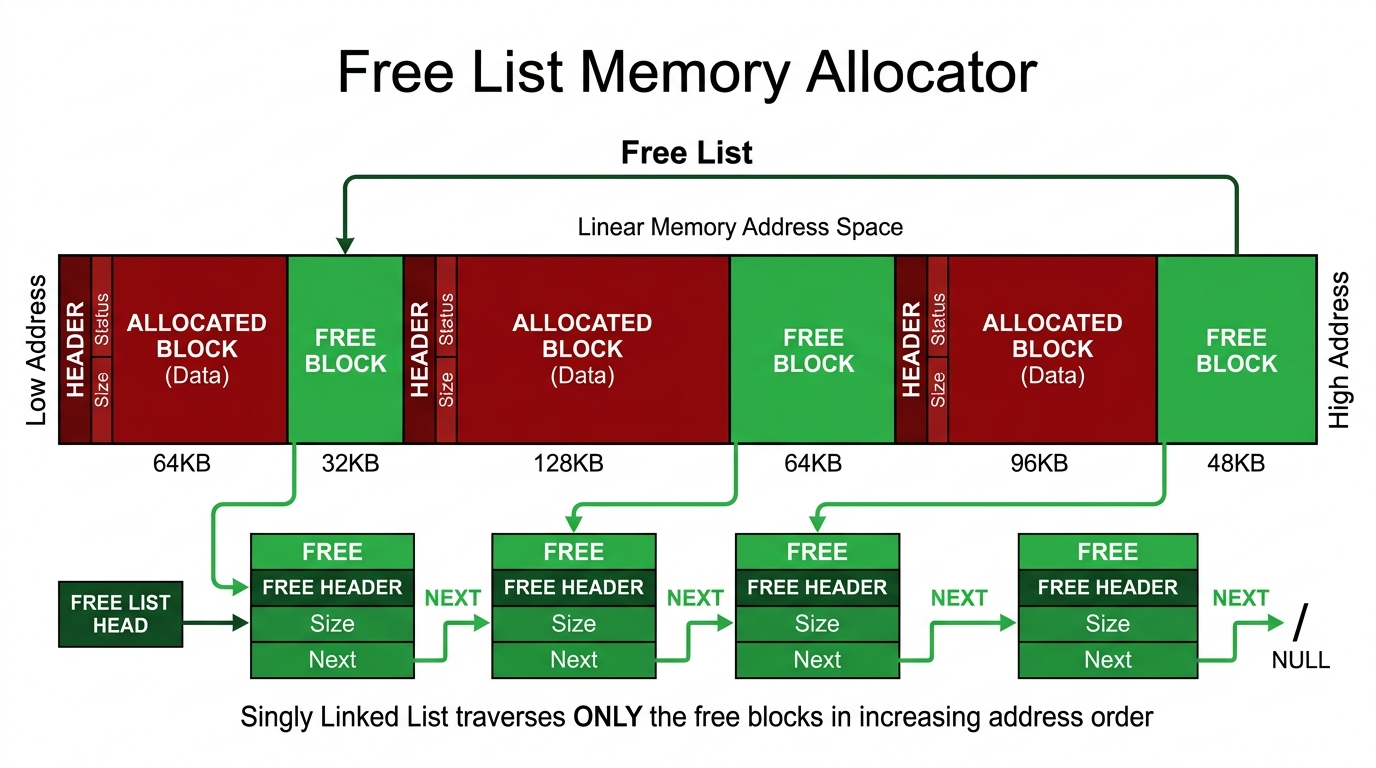
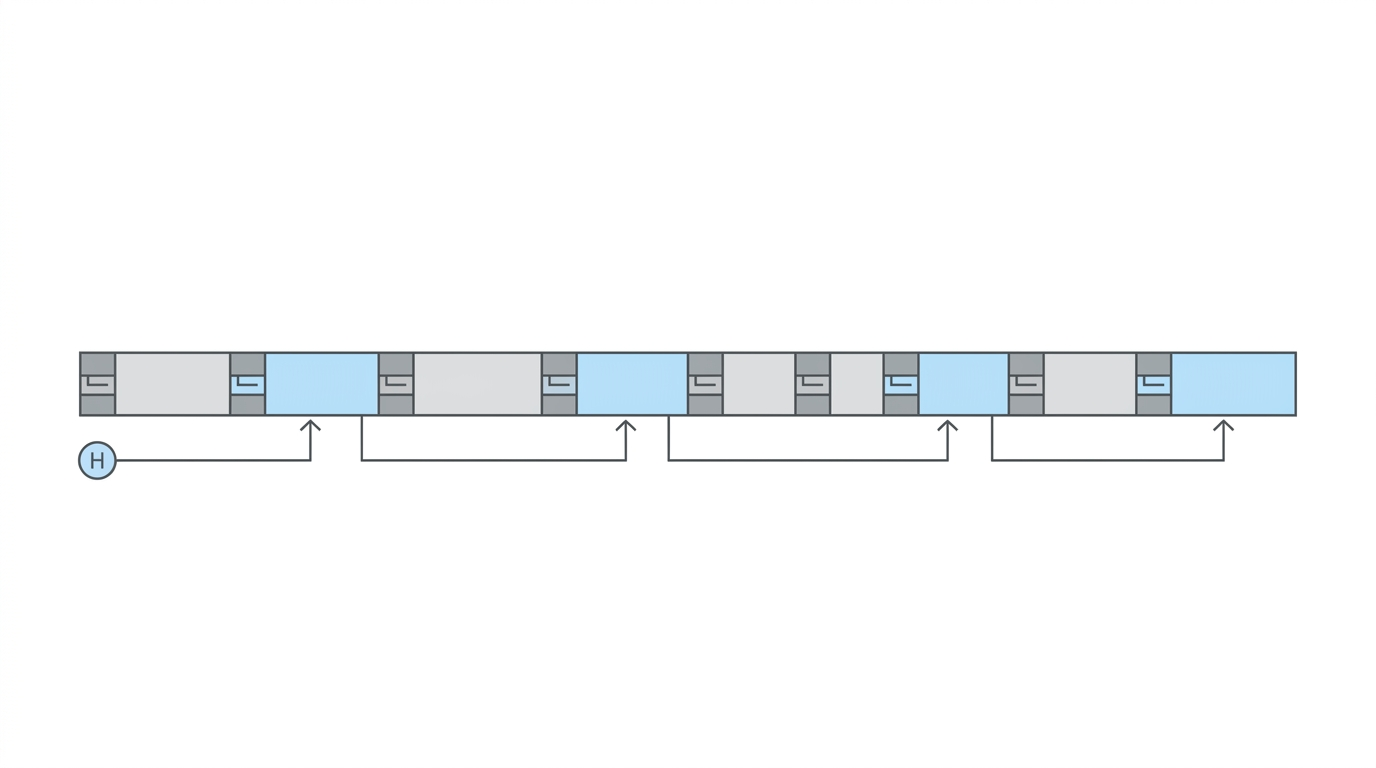
docs: streamline README and replace allocator diagrams with ultra-minimalist visuals

diff --git a/README.md b/README.md
@@ -12,192 +12,169 @@
 &nbsp;&nbsp;&nbsp;&nbsp;&nbsp;&nbsp;&nbsp;&nbsp;[Space complexity](#space-complexity)  <br/> 
 &nbsp;[Summary](#summary)  <br/> 
 &nbsp;[Last thoughts](#last-thoughts)  <br/> 
-# Introduction
-When applications need more memory this can be allocated in the heap (rather than in the stack) in _runtime_. This memory is called 'dynamic memory' because it can't be known at compile time and its need changes during the execution. Our programs can ask for dynamic memory usin 'malloc'. Malloc returns an address to a position in memory where we can store our data. Once we're done with that data, we can call 'free' to free the memory and let others processes use it.
+&nbsp;[Future work](#future-work)  <br/> 
 
-For this project I've implemented different ways to manage by ourselves dynamic memory in C++.This means that instead of using native calls like 'malloc' or 'free' we're going to use a custom memory allocator that will do this for us but in a more efficient way.
-The goal, then, is to understand how the most common allocators work, what they offer and compare them to see which one performs better.
+# Introduction
+Dynamic memory allocation using standard `malloc` and `free` is flexible but incurs significant performance overhead. This project implements custom C++ memory allocators that manage pre-allocated memory arenas to deliver faster, predictable allocations. The goal is to explore how different allocator designs operate, examine their trade-offs, and benchmark their runtime performance.
 
 # Build instructions
 
-```c
-git clone https://github.com/Sudheendra18/memory-allocators.git
-cmake -S memory-allocator -B build 
+```bash
+git clone https://github.com/Sudheendra18/custom-memory-allocator.git
+cmake -S . -B build 
 cmake --build build
 ```
 
 # What's wrong with Malloc?
-* **General purpose**: Being a general purpose operation means that it must work in all cases (from 1byte to 1GB or more...). For this reason the implementation is not as efficient as it could be if the needs were more specific.
-* **Slow**: Sometimes, when allocating memory, malloc needs to change from user to kernel mode to get more memory from the system. When this happens, malloc turns out to be super slow!
+* **General purpose:** Must handle any allocation size (from 1 byte to gigabytes), leading to internal fragmentation and bookkeeping overhead.
+* **Slow syscalls:** When heap expansion is required, `malloc` transitions between user space and kernel space (`brk`/`mmap`), which is slow and non-deterministic.
 
 # Custom allocators
-Because every program has specific needs, it makes no sense to use a general purpose allocator. We can choose the right allocator that works best for us. This way we can increase our **performance**.
-
-In general, custom allocators share some features:
-* **Low number of mallocs**: Any custom allocator tries to keep the number of mallocs low. To do that, they malloc _big chunks of memory_ and then, they manage this chunk internally to provide smaller allocations.
-* **Data structures**: Secondary data structures like _Linked Lists_, _Trees_, _Stacks_ to manage these big chunks of memory. Usually they are used to keep track of the allocated and/or free portions of memory to _speed up_ operations.
-* **Constraints**: Some allocators are very specific and have constraints over the data or operations that can be performed. This allows them to achieve a high performance but can only be used in some applications. 
+Custom allocators optimize performance by pre-allocating large memory arenas upfront and using domain-specific data structures:
+* **Fewer Mallocs:** Pre-allocates memory once to eliminate repetitive runtime syscalls.
+* **Tailored Data Structures:** Uses simple tracking (e.g., offsets, intrusive linked lists) suited to specific allocation patterns.
+* **Domain Constraints:** Imposing constraints (such as uniform chunk sizes or LIFO deallocation) enables ultra-fast $O(1)$ operations.
 
 ## Linear allocator
-This is the simplest kind of allocator. The idea is to keep a pointer at the first memory address of your memory chunk and move it every time an allocation is done. In this allocator, the internal fragmentation is kept to a minimum because all elements are sequentially (spatial locality) inserted and the only fragmentation between them is the alignment.
+The simplest allocator. Maintains an offset pointer at the beginning of the memory arena and increments it forward sequentially for each allocation.
 
 ### Data structure
-This allocator only requires a pointer (or an offset) to tell us the position of the last allocation. It doesn't require any extra information or data structure.
+Requires only an offset pointer to track the current allocation boundary. No per-allocation metadata or headers are needed.
 
 ![Data structure of a Linear Allocator](docs/images/linear1.png)
 
 _Complexity: **O(1)**_
 
 ### Allocate
-Simply move the pointer (or offset) forward.
+Advances the offset pointer forward by the requested allocation size.
 
 ![Allocating memory in a Linear Allocator](docs/images/linear2.png)
 
 _Complexity: **O(1)**_
 
 ### Free
-Due to its simplicity, this allocator doesn't allow specific positions of memory to be freed. Usually, all memory is freed together.
+Individual blocks cannot be freed. The entire memory arena is reset all at once in $O(1)$.
+
+---
 
 ## Stack allocator
-This is a smart evolution of the Linear Allocator. The idea is to manage the memory as a Stack. So, as before, we keep a pointer to the current memory address and we move it forward for every allocation. However, we also can move it backwards when a free operation is done. As before, we keep the spatial locality principle and the fragmentation is still very low.
+A LIFO (Last-In, First-Out) allocator. Similar to the Linear Allocator, but allows allocations to be rolled back in reverse order.
 
 ### Data structure
-The allocator only needs a pointer (or offset) to keep track of the current top of the stack. Rollback points are stored outside the managed block, so allocations do not need a per-allocation header in the returned memory. This avoids wasting padding space and keeps the user-facing memory contiguous.
+Maintains an offset pointer tracking the top of the stack. Each allocation is preceded by a small header containing block size and padding metadata.
 
 ![Data structure of a Stack Allocator](docs/images/stack1.png)
 
-_Complexity: **O(N*H) --> O(N)**_ where H is the Header size and N is the number of allocations
+_Complexity: **O(N)** space overhead for headers_
 
 ### Allocate
-Simply move the pointer (or offset) forward and place a header right before the memory block indicating its size.
+Advances the offset pointer and writes an allocation header immediately before the returned memory block.
 
 ![Allocating memory in a Stack Allocator](docs/images/stack2.png)
 
 _Complexity: **O(1)**_
 
 ### Free
-Free is a LIFO rollback. The allocator restores the last saved offset and does not need to inspect any header stored in the allocation itself.
+LIFO rollback. Reads the block header and restores the offset pointer back to the previous allocation boundary.
 
 ![Freeing memory in a Stack Allocator](docs/images/stack3.png)
 
 _Complexity: **O(1)**_
 
+---
+
 ## Pool allocator
-A Pool allocator is quite different from the previous ones. It splits the big memory chunk in smaller chunks of the same size and keeps track of which of them are free. When an allocation is requested it returns the free chunk size. When a freed is done, it just stores it to be used in the next allocation. This way, allocations work super fast and the fragmentation is still very low.
+Splits a memory arena into equal, fixed-size chunks. It provides fast allocations and deallocations with zero internal fragmentation for uniform objects.
 
 ![Splitting scheme in a Pool Allocator](docs/images/pool1.png)
 
 ### Data structure
-To keep track of the free blocks of memory, the Pool allocator uses a Linked List that links the address of each free memory block. 
+Tracks free blocks using a singly linked list. To eliminate extra memory overhead, this list is **intrusive**—the `NEXT` pointers are stored directly inside the unused memory chunks themselves.
 
 ![Linked List used in a Pool Allocator](docs/images/pool2.png)
-
-To reduce the space needed, this **Linked List is stored in the same free blocks** (smart right?). However, this set the constraint that the data chunks must be at least as big as our nodes in the Linked List (so that, we can store the Linked List in the free memory blocks).
-
 ![In memory Linked List used in a Pool Allocator](docs/images/pool3.png)
 
-_Complexity: **O(1)**_ 
+_Constraint: Chunk size must be at least as large as a pointer (`sizeof(void*)`)._  
+_Complexity: **O(1)**_
 
 ### Allocate
-An allocation simply means to take (pop) the first free block of the Linked List.
+Pops the first free block from the head of the linked list.
 
 ![Allocation in a Pool Allocator](docs/images/pool4.png)
-
-The linked list doesn't have to be sorted. Its order its determined by the how the allocations and free are done.
-
 ![Random State of a Linked List in a Pool Allocator](docs/images/pool5.png)
 
 _Complexity: **O(1)**_
 
 ### Free
-Free means to add (push) the freed element as the first element in the Linked List.
+Pushes the freed block back onto the head of the linked list.
 
 _Complexity: **O(1)**_
 
-## Free list allocator
+---
 
-This is a general purpose allocator that, contrary to the others, doesn't impose any restriction. It allows allocations and deallocations to be done in any order. For this reason, its performance is not as good as its predecessors. Depending on the data structure used to speed up this allocator, there are two common implementations: one that uses a Linked List and one that uses a Red black tree.
+## Free list allocator
+A general-purpose allocator that imposes no restrictions on allocation order, deallocation order, or block sizes.
 
 ### Linked list data structure
-As the name says, this implementation uses a Linked List to store, in a sorted manner, the start address of each free contiguous block in memory and its size.
-When an allocation is requested, it searches in the linked list for a block where the data can fit. Then it removes the element from the linked list and places an allocation header (used on deallocations) right before the data (as we did in the Stack allocator).
-On deallocations, we get back the allocation header to know the size of the block that we are going to free. Once we free it we insert it into the sorted linked list and we try to merge contiguous memory blocks together creating bigger blocks.
-
-*Notes: My implementation has some constraints on the size and alignment of the data that can be allocated using **this** allocator. For example, the minimum size that can be allocated should be equals or bigger than the size required of a Free Node. Otherwise, we would be wasting more space in meta-data than in real data (Something similar happens with the alignment) These constraints are related with my implementation. A better implementation would probably handle these cases. I decided not to do so because performance would be drastically affected. In these cases its probably better to use a different allocator.*
+Maintains an address-sorted linked list of free memory blocks and their sizes. Each allocated block is prefixed with an allocation header to track size and alignment.
 
 ![Data structure in a Free list Allocator](docs/images/freelist_seq1.png)
 
-_Complexity: **O(N*HF + M*HA)--> O(M)**_ where N is the number of free blocks, HF is the size of the header of free blocks, M the number of allocated blocks and HA the size of the header of allocated blocks
-
+_Complexity: **O(M)** space overhead where M is the number of allocated blocks._
 
 ### Linked list Allocate
- When an allocation is requested, we look for a block in memory where our data can fit. This means that we have to iterate our linked list until we find a block that has a size equal or bigger than the size requested (it can store this data plus the allocation header) and remove it from the linked list. This would be a **first-fit** allocation because it stops when it finds the first block where the memory fits. There is another type of search called **best-fit** that looks for the free memory block of smaller size that can handle our data. The latter operation may take more time because is always iterating through all elements but it can reduce fragmentation.
+Searches the free list using **First-Fit** (first block that fits) or **Best-Fit** (smallest block that fits, minimizing fragmentation). The selected block is split, returning the requested size and keeping the remainder in the free list.
 
 ![Allocating in a Free list Allocator](docs/images/freelist_seq2.png)
 
-_Complexity: **O(N)**_ where N is the number of free blocks 
+_Complexity: **O(N)** where N is the number of free blocks._
 
 ### Linked list Free
-First of all we get back the information about the allocation from the header. Then, we iterate the Linked List to intert the free block in the right position (because is sorted by address). Once we've inserted it, we merge contiguous blocks. We can merge in _O(1) because our Linked List is sorted. We only need to look at the previous and next elements in the linked list to see if we can merge this contiguous blocks. This operation of merging contiguous memory blocks to create bigger blocks is called _Coalescence_
-If we used instead a Sorted Linked List of free and allocated blocks, the complexity would be *O(1)* but the allocation compleixity would be *O(N) where N is the number of free and allocated blocks and space complexity would be much higher. When we free a memory block we also look at the previous and next blocks to see if we can merge them into one bigger block. 
+Reads the block header, inserts the block back into the address-sorted free list, and merges adjacent contiguous free blocks (**Coalescence**) in $O(1)$ to prevent memory fragmentation.
 
 ![Freeing in a Free list Allocator](docs/images/freelist_seq3.png)
 
-_Complexity: **O(N)**_ where N is the number of free blocks
+_Complexity: **O(N)** search + **O(1)** merge._
 
 ### Red black tree data structure
-The purpose of using a Red black tree is to speed up allocations and deallocations. In the Linked List (or sequential) implementation every time an operation was made we needed to iterate the Linked List. This was O(N) in all cases.
+Using a Red-Black Tree keyed by size reduces search complexity from $O(N)$ to $O(\log N)$ while enabling fast Best-Fit allocation. An auxiliary doubly linked list maintains address order for $O(1)$ coalescence.
 
-Using Red Black trees we can reduce its complexity to O(log N) while keeping space complexity quite low because the tree data is stored inside the free memory blocks. In addition, this structure allows a **best-fit** algorithm to be used, reducing the fragmentation and keeping performance. However, an additional sorted Doubly Linked list is required to store allocated and free elements in order to be able to do coalescence operations in O(1).
-This implementation is the most common and most used in real systems because it offers high flexibility while keeping performance very high.
+---
 
 # Benchmarks
-Now its time to make sure that all the effort in designing and implementing custom memory allocators is worth. 
-I've made several benchmarks with different block sizes, number of operations, random order, etc. The time benchmark measures the time execution that takes initializing the allocator 'Init()' (malloc big chunk, setup additional data structures...) and until the last operation (allocation or free) is performed.
-
-Here I'm only showing what I believe is relevant for the goal of this project.
+Benchmarked with varying operation counts using a fixed block size of 4,096 bytes.
 
 ## Time complexity
-* **Malloc** is without doubt the **worst allocator**.Due to its general and flexible use. _**O(n)**_
-* **Free list allocator** is **A much better choice than malloc** as a general purpose allocator.It uses Linked List to speed up allocations/free. It's about three times better than malloc _**O(n)**_
-
-The next allocator are even better BUT they are no longer general purpose allocators. They **impose restrictions** in how we can use them:
-* **Pool allocator** forces us to always allocate the same size but then we can allocate and deallocate in any order. The complexity of this one is slightly better than the free list allocator, wait what? The complexity of the pool allocator was supposed to be constant not linear! And that's true. What its happening here is that the initialization of the additional data structure (the linked list) is _**O(n)**_. It has to create all memory chunks in then linked them in the linked list. This operation is hiding the truly complexity of the allocation and free operations that is _**O(1)**_.  So, take into account to initialize the Pool allocator (and all the allocators in general) before to avoid this kind of behaviors.
-* **Stack allocator** can allocate any size, but deallocations must be done in a LIFO fashion with a _**O(1)**_ complexity. In the chart the complexity is not completely constant due to init function that has to allocate the first big chunk of memory, similarly as before in the pool allocator.
-* **Linear allocator** is the simplest and the best performant allocator with a _**O(1)**_ complexity but its also the most restrictive because single free operations are not allowed. As with the stack, the complexity doesn't look completely constant due to the init function.
+* **Malloc:** Slowest allocator ($O(N)$) due to kernel transitions and general-purpose bookkeeping.
+* **Free List:** ~3x faster than malloc while remaining general-purpose ($O(N)$).
+* **Pool, Stack, Linear:** Exhibit near-instantaneous runtime. (Initial slopes reflect one-time `Init()` arena setup).
 
 ![Time complexity of different allocators](docs/images/operations_over_time.png)
 
-In the next chart we can see that if we don't include the Init() function in the benchmark, the overall execution time is reduced and as a consequence we can effectively see that the Linear, Stack and Pool allocators are constant while malloc and free list are clearly linear. The free list implementation using black tree can reduce the complexity to _**O(log n)**_ and therefore its position in the chart would be between the pool allocator and the free list.
+Excluding the one-time `Init()` setup clearly demonstrates true constant $O(1)$ runtime for Linear, Stack, and Pool allocators:
 
-![Time complexity of different allocators](docs/images/operations_over_time_no_init.png)
-
-_Note: The time complexity (in general) scales following a linear fashion regarding the size of the allocation request.
+![Time complexity of different allocators without Init](docs/images/operations_over_time_no_init.png)
 
 ## Space complexity
-As we can see, even that the space complexity for each allocator is slightly different(due to constants), in the end, all of them have the same space complexity **O(N)**. It is very clear, then, why when denoting big O, constants can be ignored: because its weight in the overall equation is very low when N grows.
+All allocators scale linearly ($O(N)$) with total requested memory, as metadata headers represent a negligible fraction of large allocations.
 
 ![Space complexity of different allocators](docs/images/operations_over_space.png)
 
-# Summary
-This is a brief summary describing when you should use each allocator. From more restrictive and efficient allocators to less efficient and general.
+---
 
-* **Linear allocator**. If your data does not follows any specific structure. However, there's a common behavior in time: all data "expires" after a certain time and then is no longer useful and thus can be freed. Think about games for example, you can allocate data in one frame using a this allocator and free all data at the start of the next frame.  
-* **Stack allocator**. The same as the Linear allocator but think if it useful to free elements in a LIFO fashion.
-* **Pool allocator**. Your data has definitely a structure. All elements of your data have the same size. This is your choice, fast and no fragmentation.
-* **Buddy allocator** (_Not implemented here_). Your data is organized in exponential sizes power-of-two (1,2,4,8,16,32...). This allocator performs extremely well when data is structure in that way, being fast and wasting little space.
-* **Free list allocator**. No structure or common behavior. This allocator allows you to allocate and free memory as you wish. This is a general purpose allocator that works much better than malloc, but is not as good as the previous allocators, given its flexibility to work in all situations.
+# Summary
+* **Linear Allocator:** Best when all data has a common lifetime and can be freed together (e.g., per-frame game data).
+* **Stack Allocator:** Best for scoped or nested allocations freed in reverse LIFO order.
+* **Pool Allocator:** Best for high-frequency objects of uniform size (e.g., game entities, particles).
+* **Free List Allocator:** General-purpose allocator for arbitrary sizes and lifetimes where `malloc` is too slow.
 
 # Last thoughts
-* Avoid dynamic memory as much as possible. Its behavior is unexpected and a source of problems
-* If you are worried about performance and your application uses dynamic memory, think about using a custom allocator instead of malloc
-* Try to understand your data and its behavior to choose the right allocator for you. Specific allocators (that impose restrictions on how we can structure/use our data) are far more better than the generic ones. We saw a huge gap between the specific purpose allocator: **Linear, Stack and Pool** and the general purpose: **Free list and Malloc**
-* Always choose a less restrictive (or more general) allocator if unsure. If you later see that your data is structured you can always change to use a more restrictive one.
+* Avoid dynamic memory allocations during performance-critical loops whenever possible.
+* Specific-purpose allocators (**Linear, Stack, Pool**) drastically outperform general-purpose ones (**Free List, Malloc**).
+* Choose the most constrained allocator that fits your data access patterns.
 
 # Future work
-* Implement every memory allocator assuming that the alignment is always 8 bytes and thus everything is always align (we no longer need headers).
-* Implement a Free list allocator using Red Black Trees to improve performance from O(N) to O(log N)
-* Implement a Buddy allocator
-* Implement a Slab allocator
-* Benchmark internal fragmentation
-* Benchmark spatial location (cache misses)
+* Implement 8-byte alignment optimization to eliminate headers.
+* Implement a Red-Black Tree Free List allocator ($O(\log N)$).
+* Implement Buddy and Slab allocators.
+* Benchmark cache misses and spatial locality.
